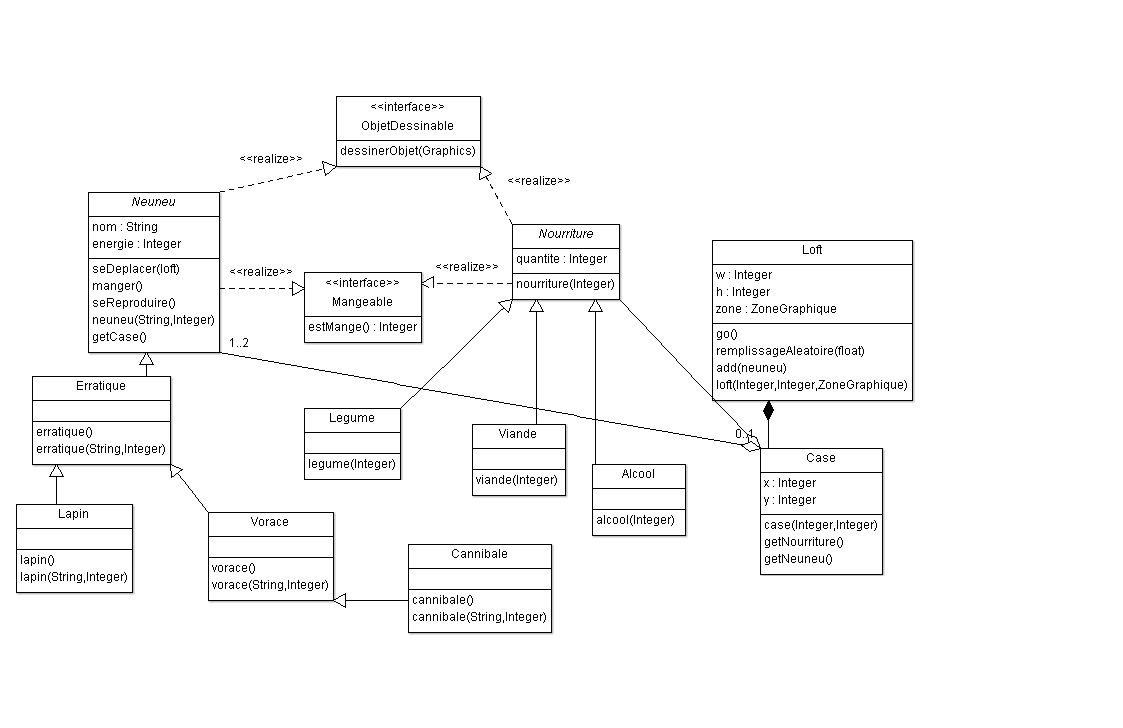
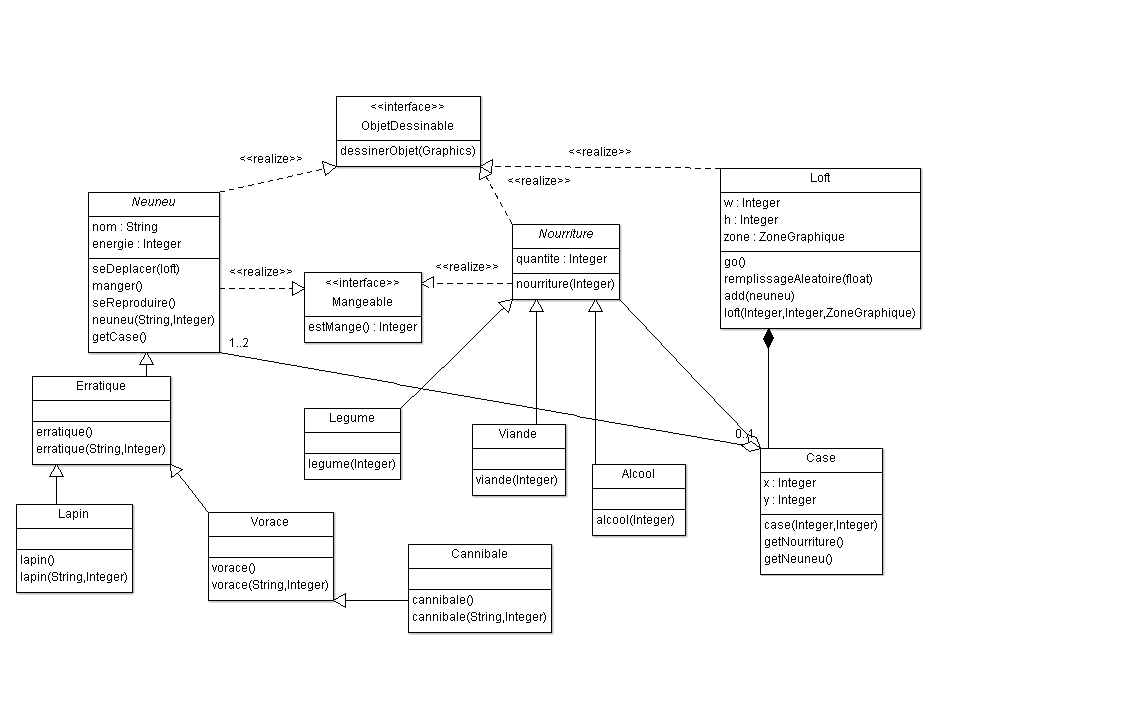
Modification du diagramme de classe (ajout d'une implémentation de l'interface ObjetDessinable, conformément à la classe Saison1 du serveur péda).

diff --git a/src/com/objet/lofteurs/neuneus/Neuneu.java b/src/com/objet/lofteurs/neuneus/Neuneu.java
@@ -5,29 +5,26 @@ import com.objet.lofteurs.Loft;
 import com.objet.lofteurs.Mangeable;
 import com.objet.lofteurs.Saison1;
 
-public abstract class Neuneu implements Mangeable{
+public abstract class Neuneu implements Mangeable {
 	protected final String name;
 	protected int energie = Saison1.energieDefault;
 	protected final Loft loft;
 	protected Case caseCourrante;
-	
-	public Neuneu(String name, Case caseDepart, Loft loft){
+
+	public Neuneu(String name, Case caseDepart, Loft loft) {
 		this.name = name;
 		this.caseCourrante = caseDepart;
 		this.loft = loft;
 	}
-	
+
 	public abstract Case seDeplacer();
-	
-	public void manger(){
-		//TODO
+
+	public void manger() {
+		// TODO
 	}
-	
-	public void sereproduire(){
-		//TODO
+
+	public void sereproduire() {
+		// TODO
 	}
-	
-	
-	
-	
+
 }

diff --git a/src/com/objet/lofteurs/Saison1.java b/src/com/objet/lofteurs/Saison1.java
@@ -1,5 +1,14 @@
 package com.objet.lofteurs;
 
+import com.objet.lofteurs.neuneus.Cannibale;
+import com.objet.lofteurs.neuneus.Erratique;
+import com.objet.lofteurs.neuneus.Vorace;
+
+/**
+ * 
+ * @author Denis Bastien
+ *
+ */
 public class Saison1 {
 
 	public static final int nombreLofteurs = 4;
